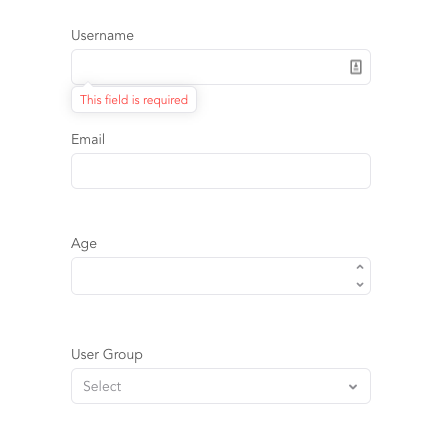
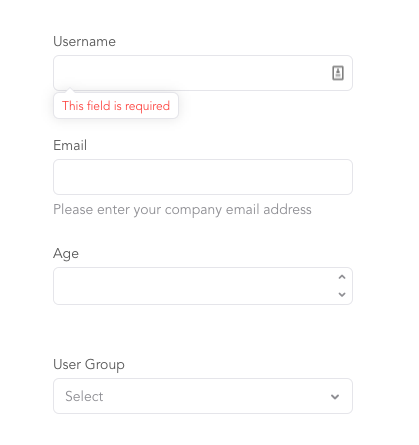
README.md

diff --git a/README.md b/README.md
@@ -25,7 +25,8 @@ const Form = SchemaForm([
   {
     key: 'email',
     type: StringType().isEmail('Please enter a valid email address'),
-    label: 'Email'
+    label: 'Email',
+    helpBlock: 'Please enter your company email address'
   },
   {
     key: 'age',
